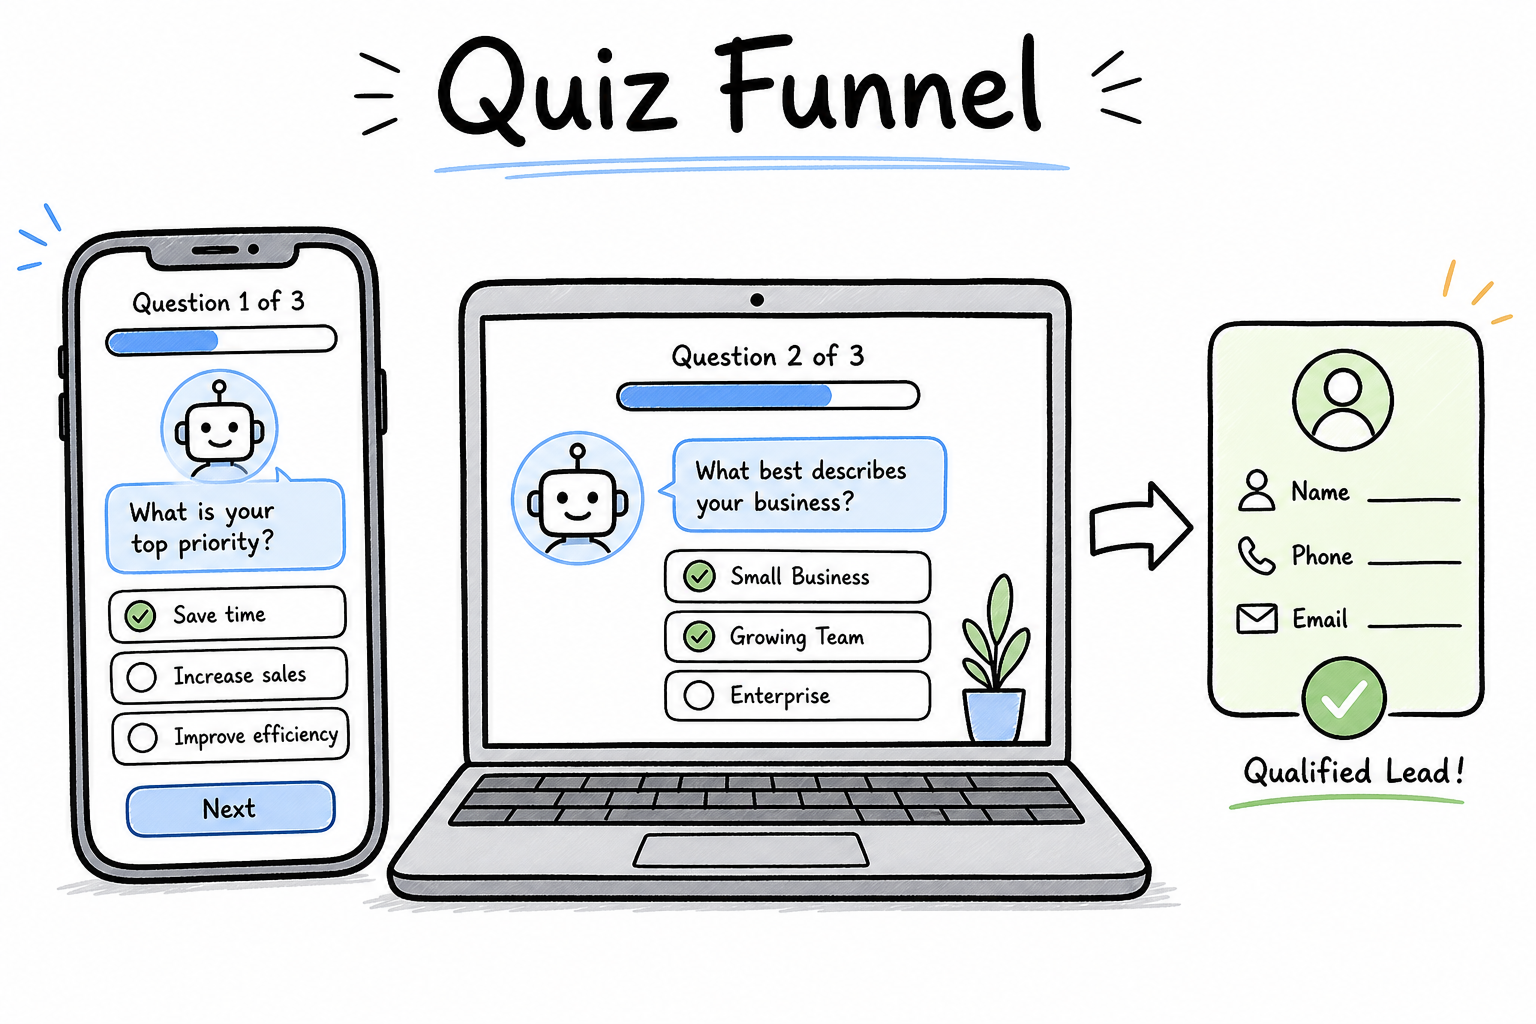
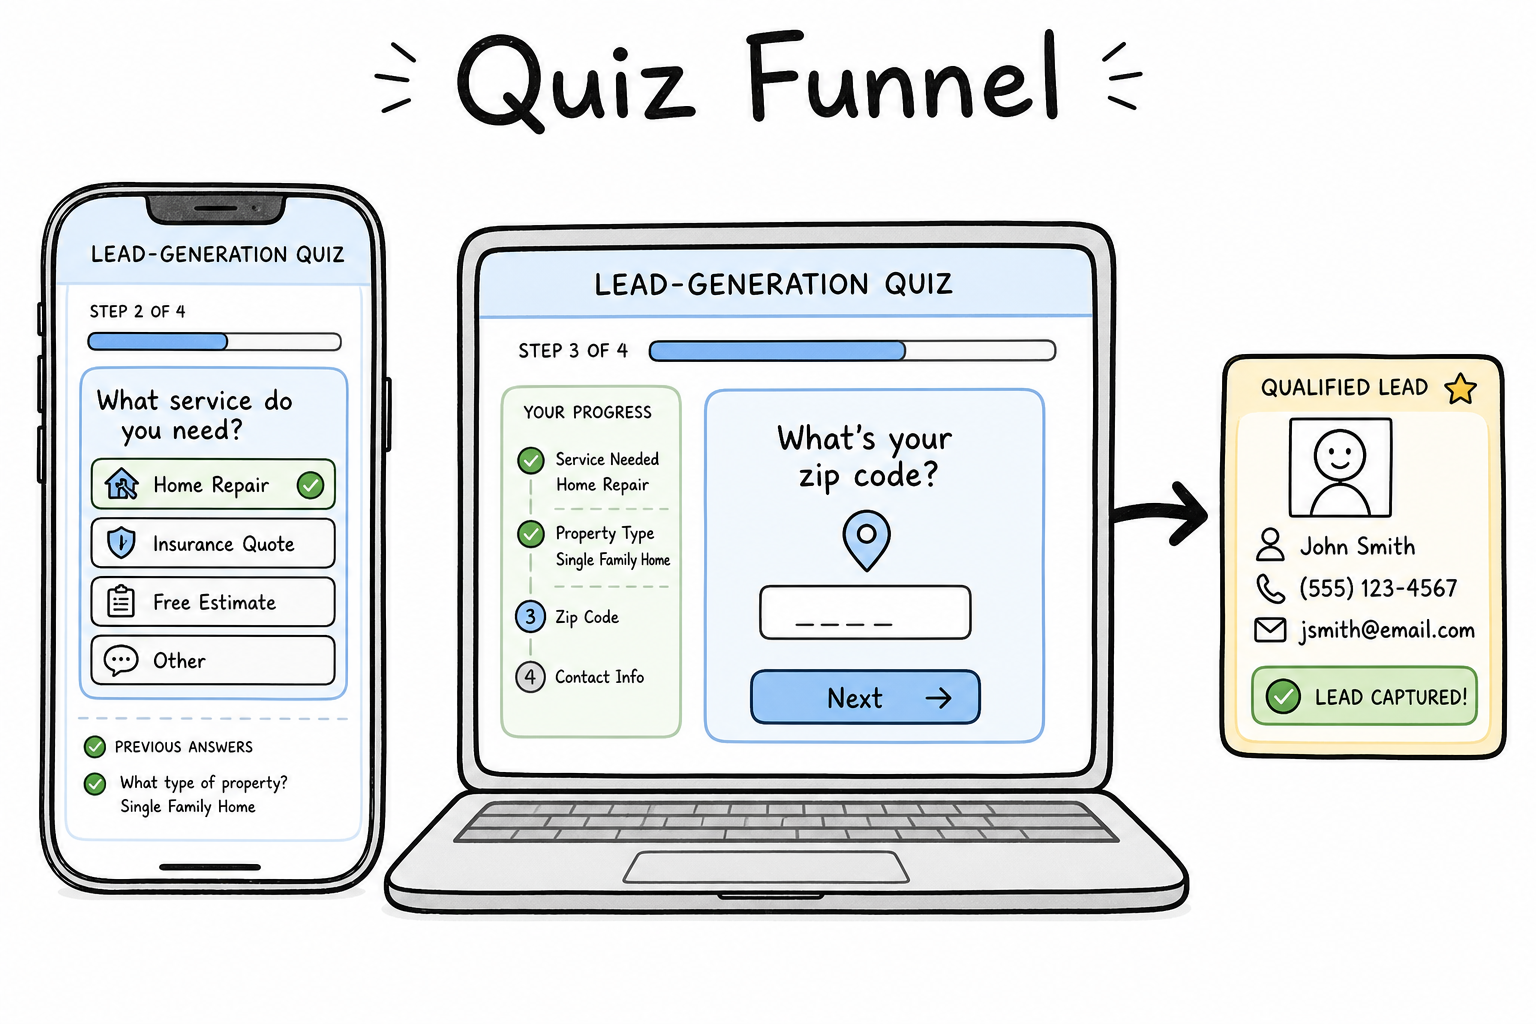
Deploy slide decks 2026-09-01_08:09

diff --git a/ppl-funnel-platform-strategy/ppl-funnel-platform-strategy.html b/ppl-funnel-platform-strategy/ppl-funnel-platform-strategy.html
@@ -415,22 +415,23 @@
       <li class="sidebar__item"><span class="sidebar__item-number">02</span><span class="sidebar__item-label">The Hook</span></li>
       <li class="sidebar__item"><span class="sidebar__item-number">03</span><span class="sidebar__item-label">The Problem</span></li>
       <li class="sidebar__item"><span class="sidebar__item-number">04</span><span class="sidebar__item-label">The Promise</span></li>
-      <li class="sidebar__item"><span class="sidebar__item-number">05</span><span class="sidebar__item-label">Quiz Funnel</span></li>
-      <li class="sidebar__item"><span class="sidebar__item-number">06</span><span class="sidebar__item-label">Quiz Funnel Explained</span></li>
-      <li class="sidebar__item"><span class="sidebar__item-number">07</span><span class="sidebar__item-label">Consent + Thank You</span></li>
-      <li class="sidebar__item"><span class="sidebar__item-number">08</span><span class="sidebar__item-label">Call Funnel</span></li>
-      <li class="sidebar__item"><span class="sidebar__item-number">09</span><span class="sidebar__item-label">Call Funnel Explained</span></li>
-      <li class="sidebar__item"><span class="sidebar__item-number">10</span><span class="sidebar__item-label">Funnel Comparison</span></li>
-      <li class="sidebar__item"><span class="sidebar__item-number">11</span><span class="sidebar__item-label">Where To Run Ads</span></li>
-      <li class="sidebar__item"><span class="sidebar__item-number">12</span><span class="sidebar__item-label">The 4 Platforms</span></li>
-      <li class="sidebar__item"><span class="sidebar__item-number">13</span><span class="sidebar__item-label">Account Structure</span></li>
-      <li class="sidebar__item"><span class="sidebar__item-number">14</span><span class="sidebar__item-label">Budget Rules</span></li>
-      <li class="sidebar__item"><span class="sidebar__item-number">15</span><span class="sidebar__item-label">Scale + Kill Rules</span></li>
-      <li class="sidebar__item"><span class="sidebar__item-number">16</span><span class="sidebar__item-label">Recap + Next</span></li>
+      <li class="sidebar__item"><span class="sidebar__item-number">05</span><span class="sidebar__item-label">The 6 Steps</span></li>
+      <li class="sidebar__item"><span class="sidebar__item-number">06</span><span class="sidebar__item-label">Step 1: Quiz Funnel</span></li>
+      <li class="sidebar__item"><span class="sidebar__item-number">07</span><span class="sidebar__item-label">Step 1 Key Insight</span></li>
+      <li class="sidebar__item"><span class="sidebar__item-number">08</span><span class="sidebar__item-label">Step 1 Compliance</span></li>
+      <li class="sidebar__item"><span class="sidebar__item-number">09</span><span class="sidebar__item-label">Step 2: Call Funnel</span></li>
+      <li class="sidebar__item"><span class="sidebar__item-number">10</span><span class="sidebar__item-label">Step 2 Key Insight</span></li>
+      <li class="sidebar__item"><span class="sidebar__item-number">11</span><span class="sidebar__item-label">Funnel Comparison</span></li>
+      <li class="sidebar__item"><span class="sidebar__item-number">12</span><span class="sidebar__item-label">Step 3: Where To Run Ads</span></li>
+      <li class="sidebar__item"><span class="sidebar__item-number">13</span><span class="sidebar__item-label">Step 3: The 4 Platforms</span></li>
+      <li class="sidebar__item"><span class="sidebar__item-number">14</span><span class="sidebar__item-label">Step 4: Account Structure</span></li>
+      <li class="sidebar__item"><span class="sidebar__item-number">15</span><span class="sidebar__item-label">Step 5: Budget Rules</span></li>
+      <li class="sidebar__item"><span class="sidebar__item-number">16</span><span class="sidebar__item-label">Step 6: Scale + Kill Rules</span></li>
+      <li class="sidebar__item"><span class="sidebar__item-number">17</span><span class="sidebar__item-label">Recap + Next</span></li>
     </ul>
     <div class="sidebar__progress">
-      <div class="sidebar__progress-bar"><div class="sidebar__progress-fill" style="width: 6.25%"></div></div>
-      <div class="sidebar__progress-text">1 / 16</div>
+      <div class="sidebar__progress-bar"><div class="sidebar__progress-fill" style="width: 5.88%"></div></div>
+      <div class="sidebar__progress-text">1 / 17</div>
     </div>
   </aside>
 
@@ -458,7 +459,7 @@
       <div class="slide__content slide__content--centered">
         <div class="badge badge--step">Pay Per Lead Playbook</div>
         <h1 class="slide__title">Funnel Strategy + Platforms</h1>
-        <p class="slide__subtitle">How leads actually flow from ad to buyer</p>
+        <p class="slide__subtitle">The 2 funnel types, 4 platforms, and account rules, step by step</p>
       </div>
     </section>
 
@@ -498,10 +499,25 @@
       </div>
     </section>
 
-    <section class="slide slide--heading-bullets" data-slide="5" data-chapter="Quiz Funnel" data-notes="A quiz does two jobs at once.|It qualifies and it builds intent.|Someone who answers questions is more serious.">
+    <section class="slide slide--heading-bullets" data-slide="5" data-chapter="The Roadmap" data-notes="Preview all six steps by name, this is the map.|Say each step name out loud, fast.|This is what fixes the no-structure feeling on rewatch.">
       <div class="slide__content">
-        <div class="badge badge--step">Funnel Type 1</div>
-        <img class="slide__hero-image" src="images/slide-05-quiz-funnel.png" alt="A multi-step quiz funnel building intent before a lead is captured" />
+        <div class="badge badge--step">The Roadmap</div>
+        <h2 class="slide__heading">The 6 Steps</h2>
+        <ul class="slide__bullets">
+          <li class="slide__bullet">Step 1: Quiz Funnel</li>
+          <li class="slide__bullet">Step 2: Call Funnel</li>
+          <li class="slide__bullet">Step 3: Where To Run Ads</li>
+          <li class="slide__bullet">Step 4: Ad Account Structure</li>
+          <li class="slide__bullet">Step 5: Budget Rules</li>
+          <li class="slide__bullet">Step 6: Scale + Kill Rules</li>
+        </ul>
+      </div>
+    </section>
+
+    <section class="slide slide--heading-bullets" data-slide="6" data-chapter="Quiz Funnel" data-notes="A quiz does two jobs at once.|It qualifies and it builds intent.|Someone who answers questions is more serious.">
+      <div class="slide__content">
+        <div class="badge badge--step">Step 1</div>
+        <img class="slide__hero-image" src="images/slide-05-quiz-funnel.png" alt="A multi-step lead-generation quiz funnel building intent before a lead is captured" />
         <p class="slide__subheading">A few short questions before the lead is captured</p>
         <ul class="slide__bullets">
           <li class="slide__bullet">Qualifies the lead as it goes</li>
@@ -511,9 +527,9 @@
       </div>
     </section>
 
-    <section class="slide slide--heading-bullets" data-slide="6" data-chapter="Quiz Funnel Explained" data-notes="Compare to a bare contact box.|Two minutes of answers means real seriousness.|This is why quiz leads convert better.">
+    <section class="slide slide--heading-bullets" data-slide="7" data-chapter="Quiz Funnel Explained" data-notes="Compare to a bare contact box.|Two minutes of answers means real seriousness.|This is why quiz leads convert better.">
       <div class="slide__content">
-        <div class="badge badge--step">Why It Works</div>
+        <div class="badge badge--step">Step 1 Key Insight</div>
         <h2 class="slide__heading">Qualifies The Lead, Builds Intent</h2>
         <ul class="slide__bullets">
           <li class="slide__bullet">A few short questions about their situation</li>
@@ -523,9 +539,9 @@
       </div>
     </section>
 
-    <section class="slide slide--heading-bullets" data-slide="7" data-chapter="Consent + Thank You" data-notes="Consent is not optional, say that plainly.|The thank you page sets expectations.|This is where compliance actually lives.">
+    <section class="slide slide--heading-bullets" data-slide="8" data-chapter="Consent + Thank You" data-notes="Consent is not optional, say that plainly.|The thank you page sets expectations.|This is where compliance actually lives.">
       <div class="slide__content">
-        <div class="badge badge--step">Step 2</div>
+        <div class="badge badge--step">Step 1 Compliance</div>
         <h2 class="slide__heading">Consent, Then A Thank You Page</h2>
         <ul class="slide__bullets">
           <li class="slide__bullet">Captures contact info plus consent to be contacted</li>
@@ -535,9 +551,9 @@
       </div>
     </section>
 
-    <section class="slide slide--heading-bullets" data-slide="8" data-chapter="Call Funnel" data-notes="Calls are simpler and convert higher.|One number, one tap, that is the whole page.|Set up why it beats a form next.">
+    <section class="slide slide--heading-bullets" data-slide="9" data-chapter="Call Funnel" data-notes="Calls are simpler and convert higher.|One number, one tap, that is the whole page.|Set up why it beats a form next.">
       <div class="slide__content">
-        <div class="badge badge--step">Funnel Type 2</div>
+        <div class="badge badge--step">Step 2</div>
         <img class="slide__hero-image" src="images/slide-08-call-funnel.png" alt="A call funnel landing page with one giant tap-to-call button" />
         <p class="slide__subheading">One giant number, one tap, one call</p>
         <ul class="slide__bullets">
@@ -548,9 +564,9 @@
       </div>
     </section>
 
-    <section class="slide slide--heading-bullets" data-slide="9" data-chapter="Call Funnel Explained" data-notes="Someone who calls is already further along.|That is why calls convert higher.|Set up the comparison slide next.">
+    <section class="slide slide--heading-bullets" data-slide="10" data-chapter="Call Funnel Explained" data-notes="Someone who calls is already further along.|That is why calls convert higher.|Set up the comparison slide next.">
       <div class="slide__content">
-        <div class="badge badge--step">Why It Converts Higher</div>
+        <div class="badge badge--step">Step 2 Key Insight</div>
         <h2 class="slide__heading">The Caller Is Already Further Along</h2>
         <ul class="slide__bullets">
           <li class="slide__bullet">Picking up the phone takes more effort than a click</li>
@@ -560,9 +576,9 @@
       </div>
     </section>
 
-    <section class="slide slide--heading-bullets" data-slide="10" data-chapter="Funnel Comparison" data-notes="Let the table do the talking here.|Both are valid, the niche decides which.|Pause before moving to platforms.">
+    <section class="slide slide--heading-bullets" data-slide="11" data-chapter="Funnel Comparison" data-notes="Let the table do the talking here.|Both are valid, the niche decides which.|Pause before moving to platforms.">
       <div class="slide__content">
-        <div class="badge badge--step">Side By Side</div>
+        <div class="badge badge--step">Step 1 vs Step 2</div>
         <h2 class="slide__heading">Quiz Funnel vs Call Funnel</h2>
         <table class="criteria-table">
           <thead>
@@ -578,17 +594,17 @@
       </div>
     </section>
 
-    <section class="slide slide--title" data-slide="11" data-chapter="Where To Run Ads" data-notes="Section break, reset the energy.|Funnels are built, now where do they run.|Four platforms coming up.">
+    <section class="slide slide--title" data-slide="12" data-chapter="Where To Run Ads" data-notes="Section break, reset the energy.|Funnels are built, now where do they run.|Four platforms coming up, this is Step 3.">
       <div class="slide__content slide__content--centered">
-        <div class="badge badge--recommended">Platforms</div>
+        <div class="badge badge--recommended">Step 3</div>
         <h1 class="slide__title">Where To Run These Ads</h1>
         <p class="slide__subtitle">Four platforms, four very different starting points</p>
       </div>
     </section>
 
-    <section class="slide slide--card-grid" data-slide="12" data-chapter="The 4 Platforms" data-notes="Meta is the easy starting point, say that clearly.|Google needs a local angle to compete.|TikTok and SEO are the two others worth knowing.">
+    <section class="slide slide--card-grid" data-slide="13" data-chapter="The 4 Platforms" data-notes="Meta is the easy starting point, say that clearly.|Google needs a local angle to compete.|TikTok and SEO are the two others worth knowing.">
       <div class="slide__content">
-        <div class="badge badge--step">Pick Your Starting Point</div>
+        <div class="badge badge--step">Step 3</div>
         <h2 class="slide__heading">The 4 Platforms</h2>
         <div class="slide__cards">
           <div class="card">
@@ -619,9 +635,9 @@
       </div>
     </section>
 
-    <section class="slide slide--heading-bullets" data-slide="13" data-chapter="Account Structure" data-notes="Keep it boring on purpose, say that phrase.|One campaign, broad targeting, a handful of creatives.|Simple beats clever here.">
+    <section class="slide slide--heading-bullets" data-slide="14" data-chapter="Account Structure" data-notes="Keep it boring on purpose, say that phrase.|One campaign, broad targeting, a handful of creatives.|Simple beats clever here, this is Step 4.">
       <div class="slide__content">
-        <div class="badge badge--step">Keep It Boring On Purpose</div>
+        <div class="badge badge--step">Step 4</div>
         <img class="slide__hero-image" src="images/slide-13-ad-account-structure.png" alt="A simple ad account structure, one campaign, broad targeting, a handful of creatives" />
         <p class="slide__subheading">One campaign. Broad targeting. A handful of creatives.</p>
         <ul class="slide__bullets">
@@ -632,9 +648,9 @@
       </div>
     </section>
 
-    <section class="slide slide--heading-bullets" data-slide="14" data-chapter="Budget Rules" data-notes="Stress the 72 hour window, this is the mistake everyone makes.|Two days is not enough data.|Patience is a budget rule too.">
+    <section class="slide slide--heading-bullets" data-slide="15" data-chapter="Budget Rules" data-notes="Stress the 72 hour window, this is the mistake everyone makes.|Two days is not enough data.|Patience is a budget rule too, this is Step 5.">
       <div class="slide__content">
-        <div class="badge badge--step">Starting Budget</div>
+        <div class="badge badge--step">Step 5</div>
         <h2 class="slide__heading">$50 to $100 A Day, 72-Hour Windows</h2>
         <ul class="slide__bullets">
           <li class="slide__bullet">Start around $50 to $100 a day</li>
@@ -644,9 +660,9 @@
       </div>
     </section>
 
-    <section class="slide slide--stats" data-slide="15" data-chapter="Scale + Kill Rules" data-notes="Never double budget overnight, say that as a warning.|The kill rule protects your margin.|These two numbers run the whole scaling motion.">
+    <section class="slide slide--stats" data-slide="16" data-chapter="Scale + Kill Rules" data-notes="Never double budget overnight, say that as a warning.|The kill rule protects your margin.|These two numbers run the whole scaling motion, this is Step 6.">
       <div class="slide__content">
-        <div class="badge badge--step">The Rules That Scale You</div>
+        <div class="badge badge--step">Step 6</div>
         <h2 class="slide__heading">Scale Slow, Kill Fast</h2>
         <div class="slide__stats-grid">
           <div class="stat-card">
@@ -663,15 +679,15 @@
       </div>
     </section>
 
-    <section class="slide slide--recap" data-slide="16" data-chapter="Recap + Next" data-notes="Recap fast, this section covered a lot.|Tease the tools section coming next.|Keep the energy up into the next segment.">
+    <section class="slide slide--recap" data-slide="17" data-chapter="Recap + Next" data-notes="Recap fast, this section covered a lot.|Tease the tools section coming next.|Keep the energy up into the next segment.">
       <div class="slide__content">
         <h2 class="slide__heading">Funnels + Platforms, Locked In</h2>
         <ol class="slide__takeaways">
-          <li class="slide__takeaway">Quiz funnels qualify and build intent</li>
-          <li class="slide__takeaway">Call funnels convert higher, faster</li>
-          <li class="slide__takeaway">Meta, Google, TikTok, and SEO are your four starting platforms</li>
-          <li class="slide__takeaway">Keep the account boring: one campaign, broad targeting, a few creatives</li>
-          <li class="slide__takeaway">Scale winners 20 to 30% a day, kill losers at 1.5 to 2x target</li>
+          <li class="slide__takeaway">Step 1, Quiz funnels qualify and build intent</li>
+          <li class="slide__takeaway">Step 2, Call funnels convert higher, faster</li>
+          <li class="slide__takeaway">Step 3, Meta, Google, TikTok, and SEO are your four starting platforms</li>
+          <li class="slide__takeaway">Step 4, keep the account boring: one campaign, broad targeting, a few creatives</li>
+          <li class="slide__takeaway">Step 5 and 6, scale winners 20 to 30% a day, kill losers at 1.5 to 2x target</li>
         </ol>
         <div class="slide__cta"><p class="slide__cta-text">Next: the 6 tools that run this whole operation</p></div>
       </div>
